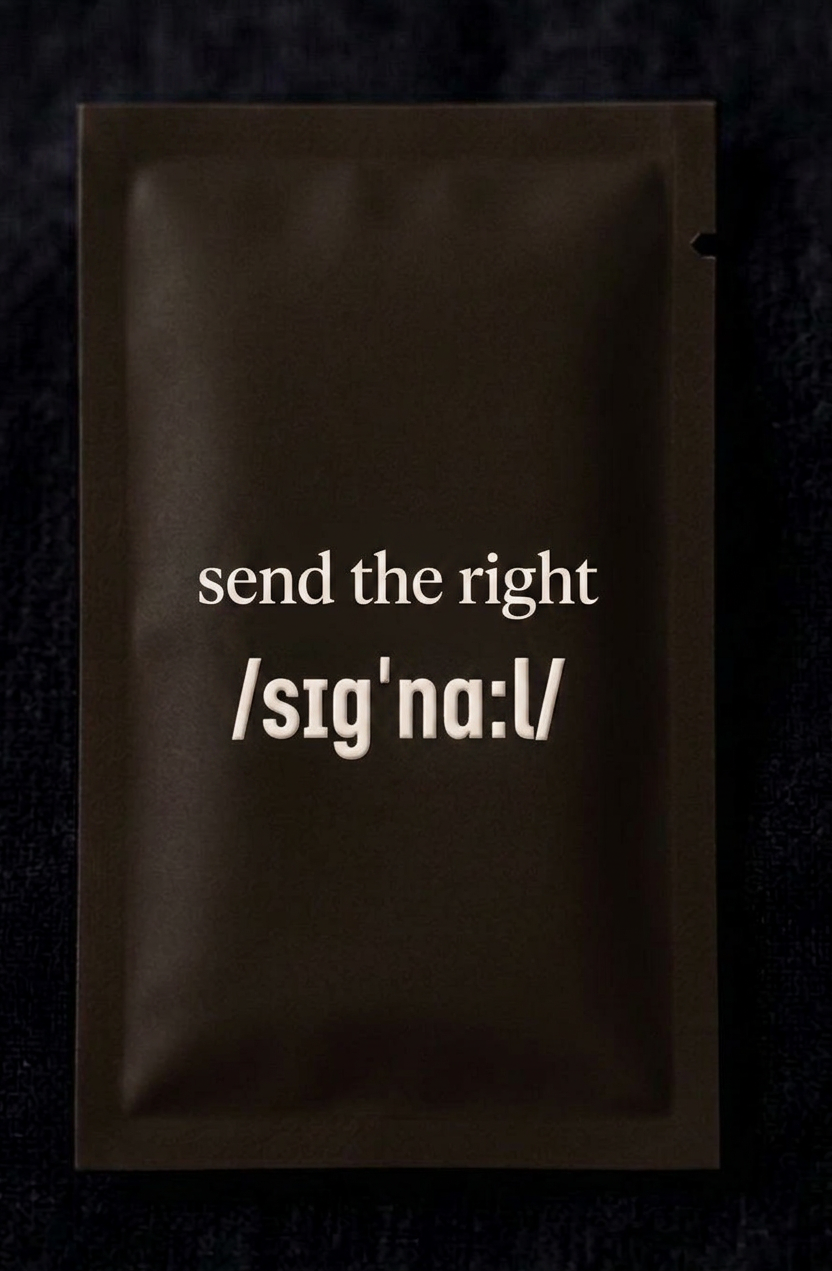
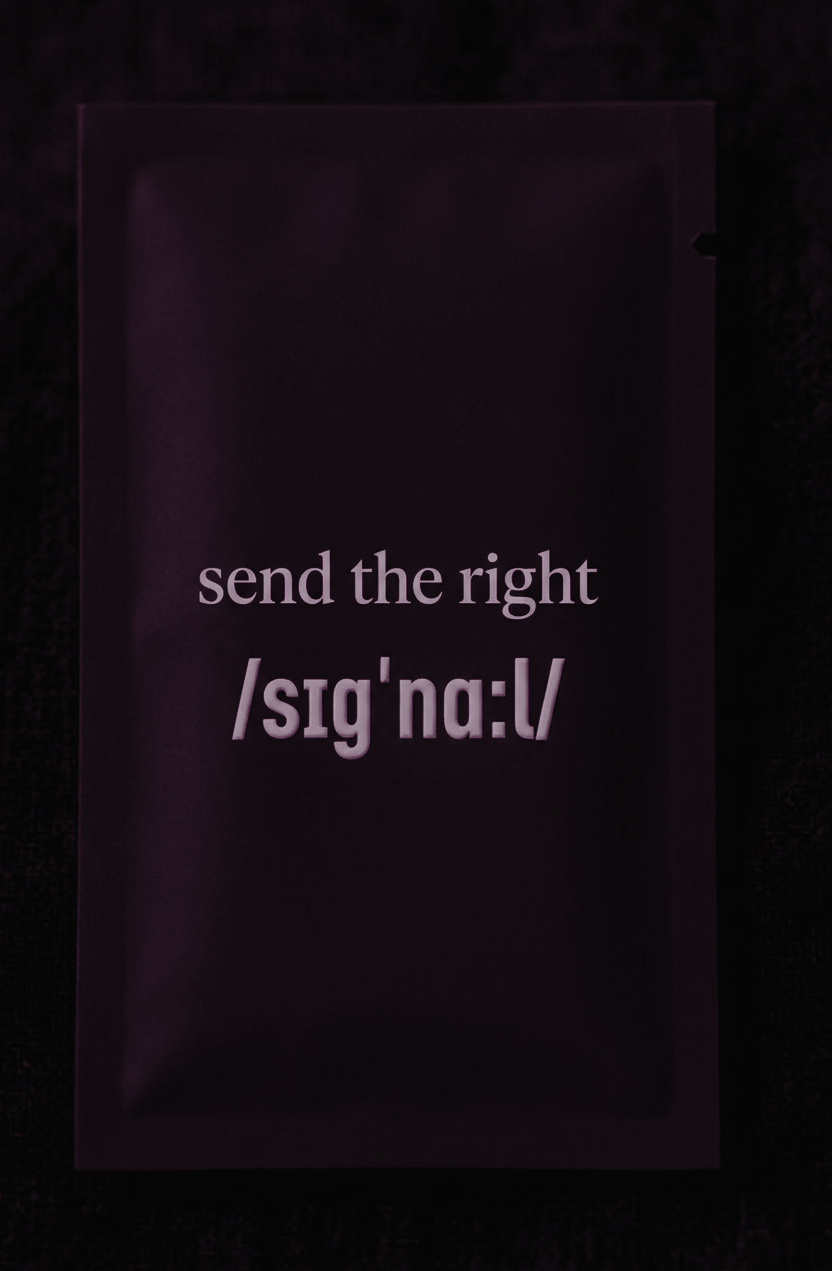
Aubergine repalette: Deep Evening #1A1410 → #4A2540 across all served surfaces (anchor + backgrounds + N°003 front); body ink kept near-black

diff --git a/brand-identity.html b/brand-identity.html
@@ -15,8 +15,8 @@
     --signal: #AD4236;
     --signal-light: #c4574b;
     --rose-linen: #F6EFEA;
-    --deep-evening: #1A1410;
-    --deep-evening-soft: #2a2420;
+    --deep-evening: #4A2540;
+    --deep-evening-soft: #5A3550;
     --font-display: 'Anguita Sans', 'Bebas Neue', Impact, sans-serif;
     --font-editorial: 'Bebas Neue', 'Anguita Sans', Impact, sans-serif;
     --font-body: 'Plus Jakarta Sans', -apple-system, BlinkMacSystemFont, 'Helvetica Neue', sans-serif;
@@ -278,7 +278,7 @@
   }
 
   /* --- PASSWORD GATE --- */
-  #gate { position: fixed; inset: 0; background: #1A1410; z-index: 9999; display: flex; flex-direction: column; align-items: center; justify-content: center; font-family: -apple-system, BlinkMacSystemFont, 'Helvetica Neue', sans-serif; color: #F6EFEA; }
+  #gate { position: fixed; inset: 0; background: #4A2540; z-index: 9999; display: flex; flex-direction: column; align-items: center; justify-content: center; font-family: -apple-system, BlinkMacSystemFont, 'Helvetica Neue', sans-serif; color: #F6EFEA; }
   #gate .gate-overline { font-size: 11px; letter-spacing: 4px; text-transform: uppercase; color: #AD4236; margin-bottom: 16px; font-weight: 600; }
   #gate .gate-title { font-family: 'Plus Jakarta Sans', sans-serif; font-weight: 700; font-size: 72px; color: #AD4236; line-height: 0.9; margin-bottom: 32px; letter-spacing: -1.6px; text-transform: lowercase; }
   #gate .gate-title .accent { color: #F6EFEA; }
@@ -456,7 +456,7 @@
       <div class="wordmark-card-info">
         <div class="wordmark-card-label">D &nbsp;·&nbsp; Monochrome dark</div>
         <div class="wordmark-card-name">single-color print</div>
-        <div class="wordmark-card-spec">Deep Evening #1A1410 · for grayscale/foil</div>
+        <div class="wordmark-card-spec">Deep Evening #4A2540 · for grayscale/foil</div>
       </div>
     </div>
 
@@ -474,7 +474,7 @@
 <section class="page">
   <div class="section-label">03 &nbsp;·&nbsp; Color</div>
   <h2>Three colors. Zero noise.</h2>
-  <p class="lead">No gradients, no color-blocking, no secondary palettes. Total restraint. Warm across the entire spectrum — even the darkest color has brown warmth, even the lightest has pink warmth. Nothing cold, nothing clinical.</p>
+  <p class="lead">No gradients, no color-blocking, no secondary palettes. Total restraint. Warm across the entire spectrum — even the darkest color carries aubergine warmth, even the lightest has pink warmth. Nothing cold, nothing clinical.</p>
 
   <div class="color-grid">
     <div class="swatch">
@@ -494,11 +494,11 @@
       </div>
     </div>
     <div class="swatch">
-      <div class="swatch-color" style="background: #1A1410;"></div>
+      <div class="swatch-color" style="background: #4A2540;"></div>
       <div class="swatch-info">
         <div class="swatch-name">deep evening</div>
-        <div class="swatch-hex">#1A1410 &nbsp;·&nbsp; rgb(26, 20, 16)</div>
-        <div class="swatch-role">The dark anchor. Container color, dark slide backgrounds, wordmark on light, display fixtures. Warm brownish near-black. The warmth in the dark is what keeps the palette alive.</div>
+        <div class="swatch-hex">#4A2540 &nbsp;·&nbsp; rgb(74, 37, 64)</div>
+        <div class="swatch-role">The dark anchor. Container color, dark slide backgrounds, the N°003 packet, wordmark on light, display fixtures. A deep warm aubergine — dusk, not midnight. The warmth in the dark is what keeps the palette alive, and the hue keeps it distinct from the hero red.</div>
       </div>
     </div>
   </div>

diff --git a/v5/appendices.html b/v5/appendices.html
@@ -9,7 +9,7 @@
 <link href="https://fonts.googleapis.com/css2?family=Plus+Jakarta+Sans:wght@300;400;500;600;700&display=swap" rel="stylesheet">
 <style>
   /* --- PASSWORD GATE --- */
-  #gate { position: fixed; inset: 0; background: #1A1410; z-index: 9999; display: flex; flex-direction: column; align-items: center; justify-content: center; font-family: -apple-system, BlinkMacSystemFont, 'Helvetica Neue', sans-serif; color: #F6EFEA; }
+  #gate { position: fixed; inset: 0; background: #4A2540; z-index: 9999; display: flex; flex-direction: column; align-items: center; justify-content: center; font-family: -apple-system, BlinkMacSystemFont, 'Helvetica Neue', sans-serif; color: #F6EFEA; }
   #gate .gate-overline { font-size: 11px; letter-spacing: 4px; text-transform: uppercase; color: #AD4236; margin-bottom: 16px; font-weight: 600; }
   #gate .gate-title { font-family: 'Anguita Sans', 'Bebas Neue', Impact, sans-serif; font-size: 96px; font-weight: 900; color: #AD4236; line-height: 0.9; margin-bottom: 12px; letter-spacing: -1px; text-transform: lowercase; }
   #gate .gate-subtitle { font-size: 14px; opacity: 0.6; margin-bottom: 32px; letter-spacing: 1px; }
@@ -52,7 +52,7 @@
   @font-face { font-family: 'Anguita Sans'; src: url('fonts/AnguitaSans.otf') format('opentype'); font-weight: 900; font-style: normal; font-display: swap; }
   @font-face { font-family: 'Bebas Neue'; src: url('fonts/BebasNeue-Regular.otf') format('opentype'); font-weight: 400; font-style: normal; font-display: swap; }
 
-  :root { --signal: #AD4236; --signal-light: #c4574b; --rose-linen: #F6EFEA; --deep-evening: #1A1410; --deep-evening-soft: #2a2420; --font-display: 'Anguita Sans', 'Bebas Neue', Impact, sans-serif; --font-editorial: 'Bebas Neue', 'Anguita Sans', Impact, sans-serif; --font-body: 'Plus Jakarta Sans', -apple-system, BlinkMacSystemFont, 'Helvetica Neue', sans-serif; }
+  :root { --signal: #AD4236; --signal-light: #c4574b; --rose-linen: #F6EFEA; --deep-evening: #4A2540; --deep-evening-soft: #5A3550; --font-display: 'Anguita Sans', 'Bebas Neue', Impact, sans-serif; --font-editorial: 'Bebas Neue', 'Anguita Sans', Impact, sans-serif; --font-body: 'Plus Jakarta Sans', -apple-system, BlinkMacSystemFont, 'Helvetica Neue', sans-serif; }
   * { margin: 0; padding: 0; box-sizing: border-box; }
   body { font-family: var(--font-body); background: var(--rose-linen); color: var(--deep-evening); line-height: 1.6; -webkit-font-smoothing: antialiased; font-weight: 400; }
 
@@ -566,7 +566,7 @@
     <div class="card">
       <div class="card-label">The Container</div>
       <h4>30 packets per box.</h4>
-      <p>Deep Evening (#1A1410) primary container. 30 packets per box = 30-day supply at 1 packet/day. Recyclable paperboard with foil-stamped wordmark. Premium unboxing without plastic clamshell. Monthly cadence matches how consumers think about subscriptions.</p>
+      <p>Deep Evening (#4A2540) primary container. 30 packets per box = 30-day supply at 1 packet/day. Recyclable paperboard with foil-stamped wordmark. Premium unboxing without plastic clamshell. Monthly cadence matches how consumers think about subscriptions.</p>
     </div>
   </div>
 

diff --git a/v5/cn-appendices.html b/v5/cn-appendices.html
@@ -10,7 +10,7 @@
 <link href="https://fonts.googleapis.com/css2?family=Plus+Jakarta+Sans:wght@300;400;500;600;700&display=swap" rel="stylesheet">
 <style>
   /* --- PASSWORD GATE --- */
-  #gate { position: fixed; inset: 0; background: #1A1410; z-index: 9999; display: flex; flex-direction: column; align-items: center; justify-content: center; font-family: -apple-system, BlinkMacSystemFont, 'Helvetica Neue', sans-serif; color: #F6EFEA; }
+  #gate { position: fixed; inset: 0; background: #4A2540; z-index: 9999; display: flex; flex-direction: column; align-items: center; justify-content: center; font-family: -apple-system, BlinkMacSystemFont, 'Helvetica Neue', sans-serif; color: #F6EFEA; }
   #gate .gate-overline { font-size: 11px; letter-spacing: 4px; text-transform: uppercase; color: #AD4236; margin-bottom: 16px; font-weight: 600; }
   #gate .gate-title { font-family: 'Anguita Sans', 'Bebas Neue', Impact, sans-serif; font-size: 96px; font-weight: 900; color: #AD4236; line-height: 0.9; margin-bottom: 12px; letter-spacing: -1px; text-transform: lowercase; }
   #gate .gate-subtitle { font-size: 14px; opacity: 0.6; margin-bottom: 32px; letter-spacing: 1px; }
@@ -53,7 +53,7 @@
   @font-face { font-family: 'Anguita Sans'; src: url('fonts/AnguitaSans.otf') format('opentype'); font-weight: 900; font-style: normal; font-display: swap; }
   @font-face { font-family: 'Bebas Neue'; src: url('fonts/BebasNeue-Regular.otf') format('opentype'); font-weight: 400; font-style: normal; font-display: swap; }
 
-  :root { --signal: #AD4236; --signal-light: #c4574b; --rose-linen: #F6EFEA; --deep-evening: #1A1410; --deep-evening-soft: #2a2420; --font-display: 'Anguita Sans', 'Bebas Neue', Impact, 'PingFang SC', 'Hiragino Sans GB', 'Microsoft YaHei', 'Noto Sans SC', sans-serif; --font-editorial: 'Bebas Neue', 'Anguita Sans', Impact, 'PingFang SC', 'Hiragino Sans GB', 'Microsoft YaHei', sans-serif; --font-body: 'Plus Jakarta Sans', -apple-system, BlinkMacSystemFont, 'Helvetica Neue', 'PingFang SC', 'Hiragino Sans GB', 'Microsoft YaHei', 'Noto Sans SC', sans-serif; }
+  :root { --signal: #AD4236; --signal-light: #c4574b; --rose-linen: #F6EFEA; --deep-evening: #4A2540; --deep-evening-soft: #5A3550; --font-display: 'Anguita Sans', 'Bebas Neue', Impact, 'PingFang SC', 'Hiragino Sans GB', 'Microsoft YaHei', 'Noto Sans SC', sans-serif; --font-editorial: 'Bebas Neue', 'Anguita Sans', Impact, 'PingFang SC', 'Hiragino Sans GB', 'Microsoft YaHei', sans-serif; --font-body: 'Plus Jakarta Sans', -apple-system, BlinkMacSystemFont, 'Helvetica Neue', 'PingFang SC', 'Hiragino Sans GB', 'Microsoft YaHei', 'Noto Sans SC', sans-serif; }
   * { margin: 0; padding: 0; box-sizing: border-box; }
   body { font-family: var(--font-body); background: var(--rose-linen); color: var(--deep-evening); line-height: 1.6; -webkit-font-smoothing: antialiased; font-weight: 400; }
 
@@ -551,7 +551,7 @@
     <div class="card">
       <div class="card-label">容器</div>
       <h4>每盒 60 袋。</h4>
-      <p>Deep Evening（#1A1410）主容器。每盒 60 袋 = 每天 1 份，60 天供应量。可回收纸板，烫印字标。高级开箱体验，无塑料翻盖盒。</p>
+      <p>Deep Evening（#4A2540）主容器。每盒 60 袋 = 每天 1 份，60 天供应量。可回收纸板，烫印字标。高级开箱体验，无塑料翻盖盒。</p>
     </div>
   </div>
 </section>

diff --git a/v5/cn.html b/v5/cn.html
@@ -10,7 +10,7 @@
 <link href="https://fonts.googleapis.com/css2?family=Plus+Jakarta+Sans:wght@300;400;500;600;700&display=swap" rel="stylesheet">
 <style>
   /* --- PASSWORD GATE --- */
-  #gate { position: fixed; inset: 0; background: #1A1410; z-index: 9999; display: flex; flex-direction: column; align-items: center; justify-content: center; font-family: -apple-system, BlinkMacSystemFont, 'Helvetica Neue', sans-serif; color: #F6EFEA; }
+  #gate { position: fixed; inset: 0; background: #4A2540; z-index: 9999; display: flex; flex-direction: column; align-items: center; justify-content: center; font-family: -apple-system, BlinkMacSystemFont, 'Helvetica Neue', sans-serif; color: #F6EFEA; }
   #gate .gate-overline { font-size: 11px; letter-spacing: 4px; text-transform: uppercase; color: #AD4236; margin-bottom: 16px; font-weight: 600; }
   #gate .gate-title { font-family: 'Anguita Sans', 'Bebas Neue', Impact, sans-serif; font-size: 96px; font-weight: 900; color: #AD4236; line-height: 0.9; margin-bottom: 12px; letter-spacing: -1px; text-transform: lowercase; }
   #gate .gate-subtitle { font-size: 14px; opacity: 0.6; margin-bottom: 12px; letter-spacing: 1px; }
@@ -60,8 +60,8 @@
     --signal: #AD4236;
     --signal-light: #c4574b;
     --rose-linen: #F6EFEA;
-    --deep-evening: #1A1410;
-    --deep-evening-soft: #2a2420;
+    --deep-evening: #4A2540;
+    --deep-evening-soft: #5A3550;
     --font-display: 'Anguita Sans', 'Bebas Neue', Impact, 'PingFang SC', 'Hiragino Sans GB', 'Microsoft YaHei', 'Noto Sans SC', sans-serif;
     --font-editorial: 'Bebas Neue', 'Anguita Sans', Impact, 'PingFang SC', 'Hiragino Sans GB', 'Microsoft YaHei', sans-serif;
     --font-body: 'Plus Jakarta Sans', -apple-system, BlinkMacSystemFont, 'Helvetica Neue', 'PingFang SC', 'Hiragino Sans GB', 'Microsoft YaHei', 'Noto Sans SC', sans-serif;

diff --git a/v5/index.html b/v5/index.html
@@ -9,7 +9,7 @@
 <link href="https://fonts.googleapis.com/css2?family=Plus+Jakarta+Sans:wght@300;400;500;600;700&display=swap" rel="stylesheet">
 <style>
   /* --- PASSWORD GATE --- */
-  #gate { position: fixed; inset: 0; background: #1A1410; z-index: 9999; display: flex; flex-direction: column; align-items: center; justify-content: center; font-family: -apple-system, BlinkMacSystemFont, 'Helvetica Neue', sans-serif; color: #F6EFEA; }
+  #gate { position: fixed; inset: 0; background: #4A2540; z-index: 9999; display: flex; flex-direction: column; align-items: center; justify-content: center; font-family: -apple-system, BlinkMacSystemFont, 'Helvetica Neue', sans-serif; color: #F6EFEA; }
   #gate .gate-overline { font-size: 11px; letter-spacing: 4px; text-transform: uppercase; color: #AD4236; margin-bottom: 16px; font-weight: 600; }
   #gate .gate-title { font-family: 'Anguita Sans', 'Bebas Neue', Impact, sans-serif; font-size: 96px; font-weight: 900; color: #AD4236; line-height: 0.9; margin-bottom: 12px; letter-spacing: -1px; text-transform: lowercase; }
   #gate .gate-subtitle { font-size: 14px; opacity: 0.6; margin-bottom: 12px; letter-spacing: 1px; }
@@ -59,8 +59,8 @@
     --signal: #AD4236;
     --signal-light: #c4574b;
     --rose-linen: #F6EFEA;
-    --deep-evening: #1A1410;
-    --deep-evening-soft: #2a2420;
+    --deep-evening: #4A2540;
+    --deep-evening-soft: #5A3550;
     --font-display: 'Anguita Sans', 'Bebas Neue', Impact, sans-serif;
     --font-editorial: 'Bebas Neue', 'Anguita Sans', Impact, sans-serif;
     --font-body: 'Plus Jakarta Sans', -apple-system, BlinkMacSystemFont, 'Helvetica Neue', sans-serif;

diff --git a/brand-manifesto.html b/brand-manifesto.html
@@ -14,8 +14,8 @@
 :root {
   --signal: #AD4236;
   --signal-light: #C85D51;
-  --deep-evening: #1A1410;
-  --deep-evening-soft: #2A2018;
+  --deep-evening: #4A2540;
+  --deep-evening-soft: #5A3550;
   --rose-linen: #F6EFEA;
   --rose-linen-dim: #E8DFD8;
   --ink: #1A1410;

diff --git a/index.html b/index.html
@@ -6,7 +6,7 @@
 <meta name="robots" content="noindex, nofollow, noarchive, nosnippet">
 <title>signal</title>
 <style>
-  html, body { margin: 0; padding: 0; height: 100%; background: #1A1410; color: #F6EFEA; font-family: 'Plus Jakarta Sans', -apple-system, BlinkMacSystemFont, 'Helvetica Neue', sans-serif; }
+  html, body { margin: 0; padding: 0; height: 100%; background: #4A2540; color: #F6EFEA; font-family: 'Plus Jakarta Sans', -apple-system, BlinkMacSystemFont, 'Helvetica Neue', sans-serif; }
   body { display: flex; flex-direction: column; align-items: center; justify-content: center; text-align: center; padding: 40px; }
   .overline { font-size: 11px; letter-spacing: 4px; text-transform: uppercase; color: #AD4236; margin-bottom: 16px; font-weight: 600; }
   .wordmark { font-size: 96px; font-weight: 900; color: #AD4236; line-height: 0.9; margin-bottom: 16px; letter-spacing: -1px; text-transform: lowercase; font-family: Impact, sans-serif; }
@@ -14,7 +14,7 @@
   .footer { position: absolute; bottom: 40px; font-size: 10px; opacity: 0.3; letter-spacing: 3px; text-transform: uppercase; }
 
   /* ─── PASSWORD GATE ─── */
-  #gate { position: fixed; inset: 0; background: #1A1410; z-index: 9999; display: flex; flex-direction: column; align-items: center; justify-content: center; font-family: 'Plus Jakarta Sans', -apple-system, sans-serif; color: #F6EFEA; padding: 40px; text-align: center; }
+  #gate { position: fixed; inset: 0; background: #4A2540; z-index: 9999; display: flex; flex-direction: column; align-items: center; justify-content: center; font-family: 'Plus Jakarta Sans', -apple-system, sans-serif; color: #F6EFEA; padding: 40px; text-align: center; }
   #gate .gate-overline { font-size: 11px; letter-spacing: 4px; text-transform: uppercase; color: #AD4236; margin-bottom: 16px; font-weight: 600; }
   #gate .gate-title { font-family: 'Plus Jakarta Sans', sans-serif; font-weight: 700; font-size: 72px; color: #AD4236; line-height: 0.9; margin-bottom: 32px; letter-spacing: -1.6px; text-transform: lowercase; }
   #gate .gate-title .accent { color: #F6EFEA; }

diff --git a/marketing-playbook.html b/marketing-playbook.html
@@ -14,7 +14,7 @@
   --signal: #AD4236;
   --signal-light: #C85D51;
   --signal-deep: #7A2E26;
-  --deep-evening: #1A1410;
+  --deep-evening: #4A2540;
   --rose-linen: #F6EFEA;
   --cream: #EFE5D1;
   --cream-deep: #E5D7BC;
@@ -380,7 +380,7 @@ footer .footer-line {
 }
 
 /* ─── PASSWORD GATE ─── */
-#gate { position: fixed; inset: 0; background: #1A1410; z-index: 9999; display: flex; flex-direction: column; align-items: center; justify-content: center; font-family: 'Plus Jakarta Sans', -apple-system, sans-serif; color: #F6EFEA; padding: 40px; text-align: center; }
+#gate { position: fixed; inset: 0; background: #4A2540; z-index: 9999; display: flex; flex-direction: column; align-items: center; justify-content: center; font-family: 'Plus Jakarta Sans', -apple-system, sans-serif; color: #F6EFEA; padding: 40px; text-align: center; }
 #gate .gate-overline { font-size: 11px; letter-spacing: 4px; text-transform: uppercase; color: #AD4236; margin-bottom: 16px; font-weight: 600; }
 #gate .gate-title { font-family: 'Plus Jakarta Sans', sans-serif; font-weight: 700; font-size: 72px; color: #AD4236; line-height: 0.9; margin-bottom: 32px; letter-spacing: -1.6px; text-transform: lowercase; }
 #gate .gate-title .accent { color: #F6EFEA; }

diff --git a/operational-spine.html b/operational-spine.html
@@ -12,7 +12,7 @@
   --signal: #AD4236;
   --signal-light: #C85D51;
   --signal-deep: #7A2E26;
-  --deep-evening: #1A1410;
+  --deep-evening: #4A2540;
   --deep-evening-soft: #2A2018;
   --rose-linen: #F6EFEA;
   --rose-linen-dim: #E8DFD8;
@@ -462,7 +462,7 @@ html, body {
 }
 
 /* ───────── Password gate ───────── */
-#gate { position: fixed; inset: 0; background: #1A1410; z-index: 9999; display: flex; flex-direction: column; align-items: center; justify-content: center; font-family: 'Plus Jakarta Sans', -apple-system, sans-serif; color: #F6EFEA; padding: 40px; text-align: center; }
+#gate { position: fixed; inset: 0; background: #4A2540; z-index: 9999; display: flex; flex-direction: column; align-items: center; justify-content: center; font-family: 'Plus Jakarta Sans', -apple-system, sans-serif; color: #F6EFEA; padding: 40px; text-align: center; }
 #gate .gate-overline { font-size: 11px; letter-spacing: 4px; text-transform: uppercase; color: #AD4236; margin-bottom: 16px; font-weight: 600; }
 #gate .gate-title { font-family: 'Plus Jakarta Sans', sans-serif; font-weight: 700; font-size: 72px; color: #AD4236; line-height: 0.9; margin-bottom: 32px; letter-spacing: -1.6px; text-transform: lowercase; }
 #gate .gate-title .accent { color: #F6EFEA; }

diff --git a/signal-codex.html b/signal-codex.html
@@ -20,7 +20,7 @@
   --signal: #AD4236;
   --signal-light: #C85D51;
   --signal-deep: #7A2E26;
-  --deep-evening: #1A1410;
+  --deep-evening: #4A2540;
   --rose-linen: #F6EFEA;
   --rose-linen-deep: #EDE3D8;
   --paper: #FBF8F4;
@@ -1135,7 +1135,7 @@ footer.codex-footer .accent { color: var(--signal-light); }
     <div class="swatch-grid">
       <div class="swatch-card"><div class="swatch-chip signal-red"></div><div class="swatch-info"><div class="swatch-info-name">Signal Red</div><div class="swatch-info-hex">#AD4236</div></div></div>
       <div class="swatch-card"><div class="swatch-chip rose-linen"></div><div class="swatch-info"><div class="swatch-info-name">Rose Linen</div><div class="swatch-info-hex">#F6EFEA</div></div></div>
-      <div class="swatch-card"><div class="swatch-chip deep-evening"></div><div class="swatch-info"><div class="swatch-info-name">Deep Evening</div><div class="swatch-info-hex">#1A1410</div></div></div>
+      <div class="swatch-card"><div class="swatch-chip deep-evening"></div><div class="swatch-info"><div class="swatch-info-name">Deep Evening</div><div class="swatch-info-hex">#4A2540</div></div></div>
     </div>
     <p><strong>Signal Red</strong> is the keystone. It is the recognition color — from across a kitchen, the eye finds <span class="term">signal</span> before the mind reads it. The wordmark. The tray. The packet. The mailer. The cover of the manifesto.</p>
     <p><strong>Rose Linen</strong> is the warm-neutral. N°001 packets. Long-form prose backgrounds. Paper left in sun. Also the mid-tone color — cards, quieter background surfaces.</p>

diff --git a/visual-register-playbook.html b/visual-register-playbook.html
@@ -14,7 +14,7 @@
   --signal: #AD4236;
   --signal-light: #C85D51;
   --signal-deep: #7A2E26;
-  --deep-evening: #1A1410;
+  --deep-evening: #4A2540;
   --rose-linen: #F6EFEA;
   --cream: #EFE5D1;
   --cream-deep: #E5D7BC;
@@ -568,7 +568,7 @@ footer .footer-line {
 }
 
 /* ─── PASSWORD GATE ─── */
-#gate { position: fixed; inset: 0; background: #1A1410; z-index: 9999; display: flex; flex-direction: column; align-items: center; justify-content: center; font-family: 'Plus Jakarta Sans', -apple-system, sans-serif; color: #F6EFEA; padding: 40px; text-align: center; }
+#gate { position: fixed; inset: 0; background: #4A2540; z-index: 9999; display: flex; flex-direction: column; align-items: center; justify-content: center; font-family: 'Plus Jakarta Sans', -apple-system, sans-serif; color: #F6EFEA; padding: 40px; text-align: center; }
 #gate .gate-overline { font-size: 11px; letter-spacing: 4px; text-transform: uppercase; color: #AD4236; margin-bottom: 16px; font-weight: 600; }
 #gate .gate-title { font-family: 'Plus Jakarta Sans', sans-serif; font-weight: 700; font-size: 72px; color: #AD4236; line-height: 0.9; margin-bottom: 32px; letter-spacing: -1.6px; text-transform: lowercase; }
 #gate .gate-title .accent { color: #F6EFEA; }